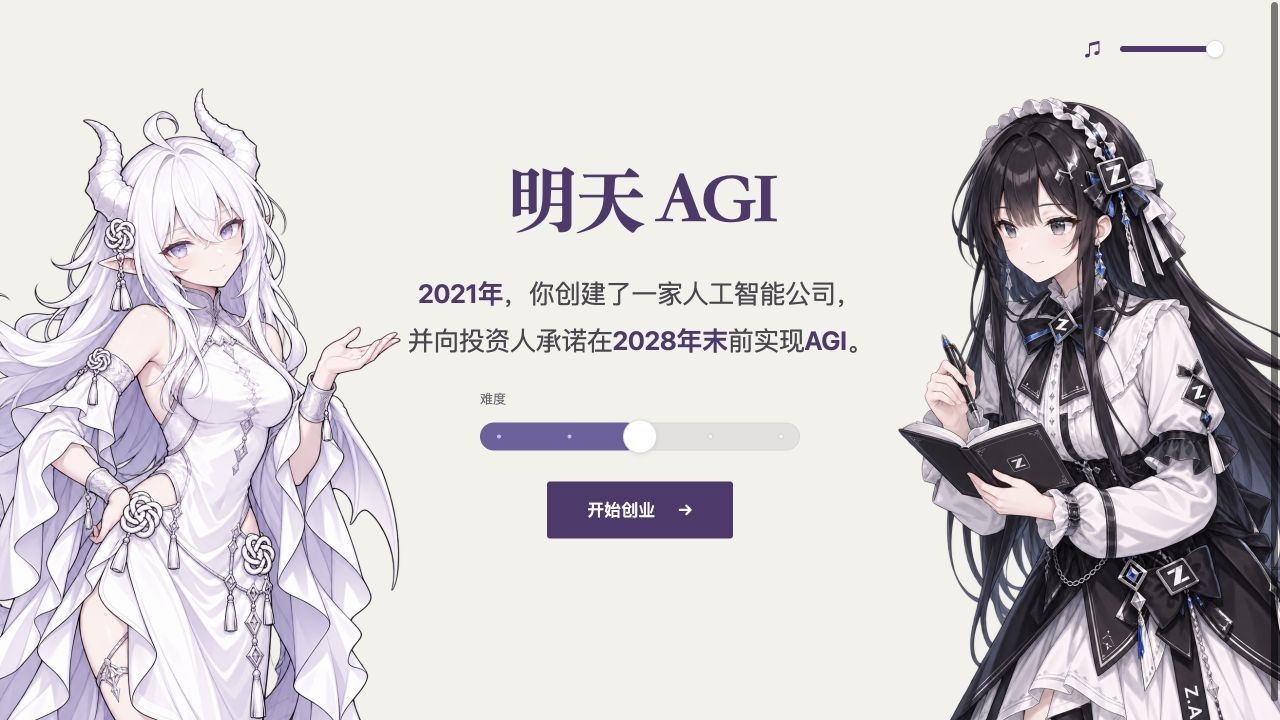
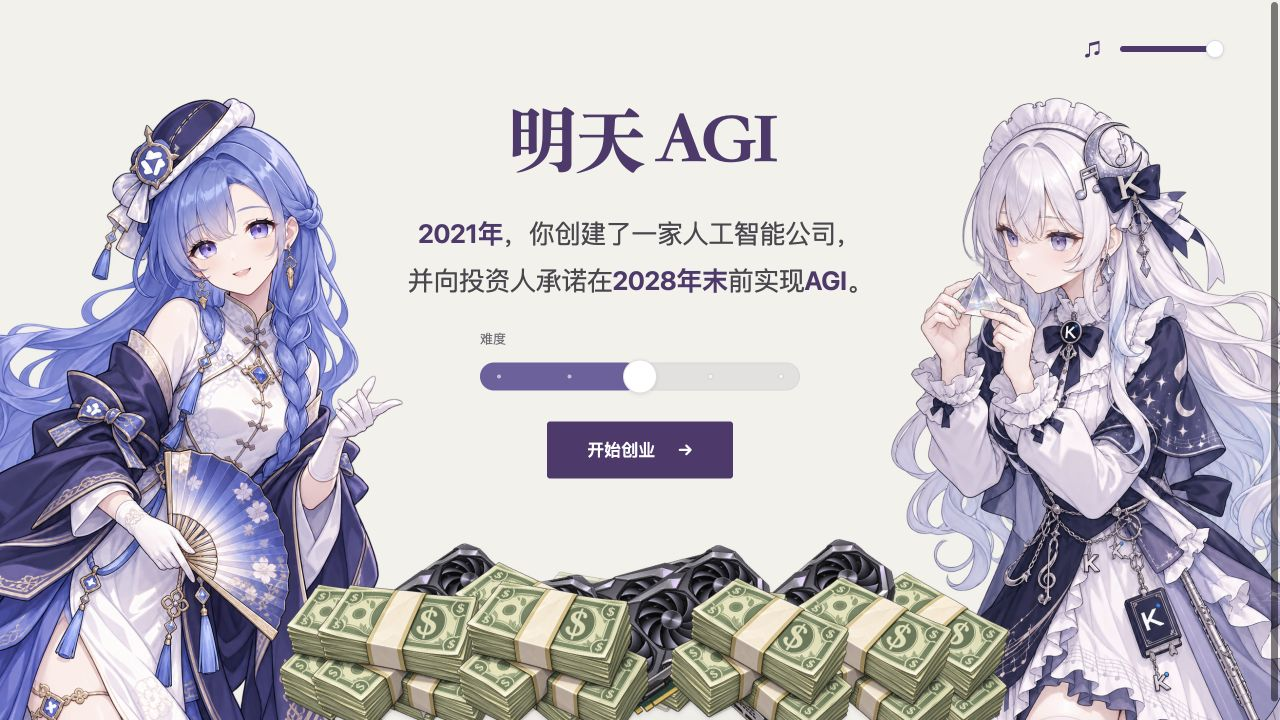
Add an anime cash and GPU pile that shrinks with difficulty

diff --git a/docs/game.js b/docs/game.js
@@ -27,7 +27,7 @@ const STAT_ICONS={
 };
 function statIcon(key){return `<svg class="stat-icon" viewBox="0 0 24 24" fill="none" stroke="currentColor" stroke-width="1.7" stroke-linecap="round" stroke-linejoin="round" aria-hidden="true" focusable="false">${STAT_ICONS[key]}</svg>`;}
 function statImpact(key,value){const label=STAT_LABELS[key],amount=signed(value);return `<span class="stat-impact" data-stat="${key}" title="${label} ${amount}">${statIcon(key)}<span class="sr-only">${label} </span><b>${amount}</b></span>`;}
-const BRANDS={google:{name:'Google / DeepMind',image:'assets/google.ico?v=68ef1152c62d'},claude:{name:'Claude',image:'assets/claude.png?v=68ef1152c62d'},deepseek:{name:'DeepSeek',image:'assets/deepseek.ico?v=68ef1152c62d'},nvidia:{name:'NVIDIA',image:'assets/nvidia.svg?v=68ef1152c62d'},xai:{name:'xAI',image:'assets/xai.ico?v=68ef1152c62d'},openai:{"name": "OpenAI", "image": "assets/openai.svg?v=68ef1152c62d"},kimi:{"name": "月之暗面 Kimi", "image": "assets/kimi.png?v=68ef1152c62d"},gemini:{"name": "Google Gemini", "image": "assets/gemini.png?v=68ef1152c62d"},qwen:{"name": "阿里千问", "image": "assets/qwen.png?v=68ef1152c62d"},doubao:{"name": "字节豆包", "image": "assets/doubao.png?v=68ef1152c62d"},wenxin:{"name": "百度文心", "image": "assets/wenxin.svg?v=68ef1152c62d"},huawei:{"name": "华为盘古", "image": "assets/huawei.png?v=68ef1152c62d"},hunyuan:{"name": "腾讯混元", "image": "assets/hunyuan.svg?v=68ef1152c62d"},xiaomi:{name:'小米',image:'assets/xiaomi.png?v=68ef1152c62d'}};
+const BRANDS={google:{name:'Google / DeepMind',image:'assets/google.ico?v=2dacdb84c088'},claude:{name:'Claude',image:'assets/claude.png?v=2dacdb84c088'},deepseek:{name:'DeepSeek',image:'assets/deepseek.ico?v=2dacdb84c088'},nvidia:{name:'NVIDIA',image:'assets/nvidia.svg?v=2dacdb84c088'},xai:{name:'xAI',image:'assets/xai.ico?v=2dacdb84c088'},openai:{"name": "OpenAI", "image": "assets/openai.svg?v=2dacdb84c088"},kimi:{"name": "月之暗面 Kimi", "image": "assets/kimi.png?v=2dacdb84c088"},gemini:{"name": "Google Gemini", "image": "assets/gemini.png?v=2dacdb84c088"},qwen:{"name": "阿里千问", "image": "assets/qwen.png?v=2dacdb84c088"},doubao:{"name": "字节豆包", "image": "assets/doubao.png?v=2dacdb84c088"},wenxin:{"name": "百度文心", "image": "assets/wenxin.svg?v=2dacdb84c088"},huawei:{"name": "华为盘古", "image": "assets/huawei.png?v=2dacdb84c088"},hunyuan:{"name": "腾讯混元", "image": "assets/hunyuan.svg?v=2dacdb84c088"},xiaomi:{name:'小米',image:'assets/xiaomi.png?v=2dacdb84c088'}};
 const STORAGE='agi-tomorrow-game', TOTAL=32, HISTORY_TURNS=24, OFFER_COUNT=9, STRATEGY_COUNT=3;
 const AGI={research:450,trust:55,team:40,scientists:2}, REVEAL_MS=1600;
 const TALENT_PROGRAM='open-talent-program', TALENT_BONUS={research:3,team:2}, TIBO_EXTRA_CHANCE=.18;
@@ -64,7 +64,7 @@ function makeDeck(){const used=new Set(),reserved=new Set(Object.values(DATA.fix
 function makeRun(difficulty=3){return {difficulty:difficultyFor(difficulty).level,started:false,picks:[],awaiting:false,eventIds:makeDeck(),offers:[],choiceOffers:[],choice:null,strategies:[],decisionStage:'event'};}
 let run=makeRun(),collected=[],revealTimer,introTransition=null,stageTransition=null,quarterTransition=null;
 const CHARACTER_SIDES={left:['gpt','deepseek','gemini','qwen','minimax'],right:['claude','grok','kimi','glm']};
-const CHARACTER_IMAGES={gpt:'assets/cover/gpt-action-v2.png?v=68ef1152c62d',deepseek:'assets/cover/deepseek-action-v2.png?v=68ef1152c62d',claude:'assets/cover/claude-action-v2.png?v=68ef1152c62d',gemini:'assets/cover/gemini-action-v2.png?v=68ef1152c62d',grok:'assets/cover/grok-action-v2.png?v=68ef1152c62d',qwen:'assets/cover/qwen-action-v2.png?v=68ef1152c62d',kimi:'assets/cover/kimi-action-v2.png?v=68ef1152c62d',minimax:'assets/cover/minimax-action-v2.png?v=68ef1152c62d',glm:'assets/cover/glm-action-v2.png?v=68ef1152c62d'};
+const CHARACTER_IMAGES={gpt:'assets/cover/gpt-action-v2.png?v=2dacdb84c088',deepseek:'assets/cover/deepseek-action-v2.png?v=2dacdb84c088',claude:'assets/cover/claude-action-v2.png?v=2dacdb84c088',gemini:'assets/cover/gemini-action-v2.png?v=2dacdb84c088',grok:'assets/cover/grok-action-v2.png?v=2dacdb84c088',qwen:'assets/cover/qwen-action-v2.png?v=2dacdb84c088',kimi:'assets/cover/kimi-action-v2.png?v=2dacdb84c088',minimax:'assets/cover/minimax-action-v2.png?v=2dacdb84c088',glm:'assets/cover/glm-action-v2.png?v=2dacdb84c088'};
 const characterBags={left:[],right:[]},characterPreloads=new Map();
 let characterPair=null,nextCharacterPair=null,nextCharacterTurn=null;
 function drawCharacterPair(previous=characterPair){
@@ -424,7 +424,16 @@ function renderCharacterArt(prefix){
  return `<div class="${prefix}-art" aria-hidden="true">${characterPair.map((id,i)=>`<img class="${prefix}-character ${prefix}-${i?'right':'left'} ${prefix}-${id}" src="${CHARACTER_IMAGES[id]}" width="1024" height="1536" alt="" draggable="false">`).join('')}</div>`;
 }
 function difficultyDescription(d){return `第 ${d.level} 档，共 5 档，${d.name}，初始资金 ${money(d.cash/100,Number.isInteger(d.cash/100)?0:1)} 亿，风险上限 ${d.riskLimit}`;}
-function renderIntro(){const d=difficultyFor(run.difficulty);return renderCharacterArt('intro')+`<section class="start-screen" data-difficulty="${d.level}" aria-labelledby="startTitle"><h1 id="startTitle">明天 <span class="agi-title"><span class="agi-title-text">AGI</span><span class="agi-title-sparkles" aria-hidden="true"></span></span></h1><p><strong>2021年</strong>，你创建了一家人工智能公司，并向投资人承诺在<strong>2028年末</strong>前实现<strong>AGI</strong>。</p><div class="difficulty-selector"><div class="difficulty-heading"><label for="difficultySlider">难度</label></div><div class="difficulty-slider-wrap" id="difficultySliderWrap" style="--difficulty-position:${(d.level-1)/4}"><div class="difficulty-track" aria-hidden="true"><span class="difficulty-fill"></span><span class="difficulty-sparkles"></span></div><div class="difficulty-ticks" aria-hidden="true"><i></i><i></i><i></i><i></i><i></i></div><span class="difficulty-thumb" aria-hidden="true"></span><input id="difficultySlider" type="range" min="1" max="5" step="0.01" value="${d.level}" aria-label="难度" aria-valuetext="${difficultyDescription(d)}"></div></div><button class="continue" id="startButton"><span class="start-button-text">开始创业<span aria-hidden="true"> →</span></span></button></section>`;}
+const STARTUP_RESOURCE_IMAGES={cash:'assets/intro/cash-bundles.png?v=2dacdb84c088',gpu:'assets/intro/graphics-card.png?v=2dacdb84c088'};
+const STARTUP_RESOURCES=Array.from({length:24},(_,order)=>({kind:order%3===0?'gpu':'cash',order,base:order<3,cutoff:order<3?5:5-(order-3)*11/60}));
+function startupResourceOpacity(base,cutoff,position){return base?1:clamp((cutoff-position)*3,0,1);}
+function renderStartupResources(position){return `<div id="startupResources" class="startup-resources" aria-hidden="true" style="--resource-density:${(5-position)/4}">${STARTUP_RESOURCES.map(piece=>`<img class="resource-piece" data-resource="${piece.kind}" data-base="${piece.base}" data-cutoff="${piece.cutoff}" src="${STARTUP_RESOURCE_IMAGES[piece.kind]}" alt="" draggable="false" decoding="async" style="--resource-order:${piece.order};--resource-opacity:${startupResourceOpacity(piece.base,piece.cutoff,position)}">`).join('')}</div>`;}
+function updateStartupResources(position){
+ const pile=$('startupResources');if(!pile)return;
+ pile.style.setProperty('--resource-density',String((5-position)/4));
+ for(const piece of pile.children)piece.style.setProperty('--resource-opacity',String(startupResourceOpacity(piece.dataset.base==='true',Number(piece.dataset.cutoff),position)));
+}
+function renderIntro(){const d=difficultyFor(run.difficulty);return renderCharacterArt('intro')+`<section class="start-screen" data-difficulty="${d.level}" aria-labelledby="startTitle"><h1 id="startTitle">明天 <span class="agi-title"><span class="agi-title-text">AGI</span><span class="agi-title-sparkles" aria-hidden="true"></span></span></h1><p><strong>2021年</strong>，你创建了一家人工智能公司，并向投资人承诺在<strong>2028年末</strong>前实现<strong>AGI</strong>。</p><div class="difficulty-selector"><div class="difficulty-heading"><label for="difficultySlider">难度</label></div><div class="difficulty-slider-wrap" id="difficultySliderWrap" style="--difficulty-position:${(d.level-1)/4}"><div class="difficulty-track" aria-hidden="true"><span class="difficulty-fill"></span><span class="difficulty-sparkles"></span></div><div class="difficulty-ticks" aria-hidden="true"><i></i><i></i><i></i><i></i><i></i></div><span class="difficulty-thumb" aria-hidden="true"></span><input id="difficultySlider" type="range" min="1" max="5" step="0.01" value="${d.level}" aria-label="难度" aria-valuetext="${difficultyDescription(d)}"></div></div><button class="continue" id="startButton"><span class="start-button-text">开始创业<span aria-hidden="true"> →</span></span></button></section>${renderStartupResources(d.level)}`;}
 function selectDifficulty(value,snap=false){
  if(run.started||introTransition)return;
  const raw=Number(value),position=Number.isFinite(raw)?clamp(raw,1,5):difficultyFor(run.difficulty).level;
@@ -433,6 +442,7 @@ function selectDifficulty(value,snap=false){
  if(screen)screen.dataset.difficulty=String(d.level);
  if(slider){slider.value=String(snap?d.level:position);slider.setAttribute('aria-valuetext',difficultyDescription(d));}
  if(wrap){wrap.dataset.snapping=String(snap);wrap.style.setProperty('--difficulty-position',String(((snap?d.level:position)-1)/4));}
+ updateStartupResources(snap?d.level:position);
  if(changed)save();
 }
 function renderChoiceAffinities(choice,index){

diff --git a/docs/style.css b/docs/style.css
@@ -708,7 +708,7 @@ body.is-starting .text-button{color:#eee7ff}
 /* A continuous volume control: the left endpoint is silent. */
 .music-control{display:flex;align-items:center;gap:3px;flex-shrink:0}
 .music-control #musicButton{min-height:36px}
-.music-control[data-sound="on"] #musicButton{display:grid;place-items:center;min-width:32px;width:32px;padding:4px;font-size:19px;line-height:1}
+.music-control[data-sound="on"] #musicButton[aria-pressed="true"]{display:grid;place-items:center;min-width:32px;width:32px;padding:4px;font-size:19px;line-height:1}
 .music-volume{position:relative;flex:0 0 112px;width:112px;height:36px;--volume-position:1}
 .music-volume-track{position:absolute;inset:15px 8px;overflow:hidden;border-radius:999px;background:#d9d5df;pointer-events:none}
 .music-volume-fill{position:absolute;inset:0 auto 0 0;width:calc(100%*var(--volume-position));background:var(--accent);border-radius:inherit}
@@ -757,3 +757,35 @@ body.is-starting .text-button{color:#eee7ff}
 @media(pointer:coarse){.music-control #musicButton{min-height:44px}.music-volume,.music-volume input{height:44px}.music-volume-track{inset-block:19px}}
 @media(max-width:600px){.music-volume{flex-basis:100px;width:100px}.start-screen>p{margin-bottom:22px}.difficulty-selector{width:min(100%,290px);margin-bottom:21px}}
 @media(prefers-reduced-motion:reduce){.difficulty-fill,.difficulty-sparkles,.agi-title-text,.agi-title-sparkles,.start-screen #startButton,.start-screen #startButton::after{animation:none!important}}
+
+/* Starting resources recede as the difficulty rises. */
+.startup-resources{position:fixed;left:50%;bottom:-34px;width:min(680px,64vw);height:250px;transform:translateX(-50%);pointer-events:none;user-select:none;isolation:isolate;z-index:0;--pile-rise:.5}
+.startup-resources::before{content:'';position:absolute;left:10%;right:10%;bottom:14px;height:20px;border-radius:50%;background:#5f56551c;filter:blur(10px);opacity:calc(.2 + var(--resource-density)*.55);transform:scaleX(calc(.55 + var(--resource-density)*.45))}
+.resource-piece{position:absolute;left:calc(var(--piece-x)*1%);bottom:calc(var(--piece-y)*var(--pile-rise)*1px);width:calc(var(--piece-width)*1%);height:auto;z-index:var(--piece-layer);opacity:var(--resource-opacity);transform:translateX(-50%) translateY(calc((1 - var(--resource-opacity))*14px)) rotate(calc(var(--piece-angle)*1deg)) scale(calc(.9 + var(--resource-opacity)*.1));transform-origin:50% 80%;transition:opacity .14s linear,transform .18s ease;filter:drop-shadow(0 3px 2px #342f4420)}
+.resource-piece:nth-child(1){--piece-x:55;--piece-y:0;--piece-width:33;--piece-angle:-8;--piece-layer:8}
+.resource-piece:nth-child(2){--piece-x:38;--piece-y:0;--piece-width:29;--piece-angle:-7;--piece-layer:10}
+.resource-piece:nth-child(3){--piece-x:67;--piece-y:-2;--piece-width:28;--piece-angle:8;--piece-layer:12}
+.resource-piece:nth-child(4){--piece-x:27;--piece-y:5;--piece-width:32;--piece-angle:13;--piece-layer:5}
+.resource-piece:nth-child(5){--piece-x:17;--piece-y:0;--piece-width:29;--piece-angle:-11;--piece-layer:8}
+.resource-piece:nth-child(6){--piece-x:82;--piece-y:0;--piece-width:28;--piece-angle:9;--piece-layer:11}
+.resource-piece:nth-child(7){--piece-x:76;--piece-y:16;--piece-width:32;--piece-angle:-16;--piece-layer:5}
+.resource-piece:nth-child(8){--piece-x:32;--piece-y:29;--piece-width:28;--piece-angle:8;--piece-layer:6}
+.resource-piece:nth-child(9){--piece-x:62;--piece-y:35;--piece-width:27;--piece-angle:-7;--piece-layer:7}
+.resource-piece:nth-child(10){--piece-x:48;--piece-y:32;--piece-width:33;--piece-angle:10;--piece-layer:4}
+.resource-piece:nth-child(11){--piece-x:11;--piece-y:20;--piece-width:27;--piece-angle:-9;--piece-layer:3}
+.resource-piece:nth-child(12){--piece-x:90;--piece-y:20;--piece-width:27;--piece-angle:13;--piece-layer:4}
+.resource-piece:nth-child(13){--piece-x:19;--piece-y:39;--piece-width:30;--piece-angle:-10;--piece-layer:2}
+.resource-piece:nth-child(14){--piece-x:46;--piece-y:58;--piece-width:28;--piece-angle:-8;--piece-layer:3}
+.resource-piece:nth-child(15){--piece-x:74;--piece-y:57;--piece-width:28;--piece-angle:10;--piece-layer:3}
+.resource-piece:nth-child(16){--piece-x:87;--piece-y:48;--piece-width:30;--piece-angle:11;--piece-layer:1}
+.resource-piece:nth-child(17){--piece-x:25;--piece-y:58;--piece-width:28;--piece-angle:-9;--piece-layer:2}
+.resource-piece:nth-child(18){--piece-x:56;--piece-y:80;--piece-width:29;--piece-angle:7;--piece-layer:2}
+.resource-piece:nth-child(19){--piece-x:39;--piece-y:82;--piece-width:32;--piece-angle:-13;--piece-layer:1}
+.resource-piece:nth-child(20){--piece-x:13;--piece-y:56;--piece-width:27;--piece-angle:-8;--piece-layer:1}
+.resource-piece:nth-child(21){--piece-x:91;--piece-y:60;--piece-width:27;--piece-angle:9;--piece-layer:1}
+.resource-piece:nth-child(22){--piece-x:66;--piece-y:92;--piece-width:32;--piece-angle:10;--piece-layer:0}
+.resource-piece:nth-child(23){--piece-x:37;--piece-y:109;--piece-width:27;--piece-angle:-10;--piece-layer:0}
+.resource-piece:nth-child(24){--piece-x:61;--piece-y:120;--piece-width:28;--piece-angle:8;--piece-layer:0}
+@media(min-width:761px){main.intro:has(.startup-resources){padding-bottom:200px}}
+@media(max-width:760px){.startup-resources{width:min(510px,calc(100vw + 60px));height:190px;bottom:-28px;--pile-rise:.4}}
+@media(prefers-reduced-motion:reduce){.resource-piece{transition:none}}

diff --git a/style.css b/style.css
@@ -708,7 +708,7 @@ body.is-starting .text-button{color:#eee7ff}
 /* A continuous volume control: the left endpoint is silent. */
 .music-control{display:flex;align-items:center;gap:3px;flex-shrink:0}
 .music-control #musicButton{min-height:36px}
-.music-control[data-sound="on"] #musicButton{display:grid;place-items:center;min-width:32px;width:32px;padding:4px;font-size:19px;line-height:1}
+.music-control[data-sound="on"] #musicButton[aria-pressed="true"]{display:grid;place-items:center;min-width:32px;width:32px;padding:4px;font-size:19px;line-height:1}
 .music-volume{position:relative;flex:0 0 112px;width:112px;height:36px;--volume-position:1}
 .music-volume-track{position:absolute;inset:15px 8px;overflow:hidden;border-radius:999px;background:#d9d5df;pointer-events:none}
 .music-volume-fill{position:absolute;inset:0 auto 0 0;width:calc(100%*var(--volume-position));background:var(--accent);border-radius:inherit}
@@ -757,3 +757,35 @@ body.is-starting .text-button{color:#eee7ff}
 @media(pointer:coarse){.music-control #musicButton{min-height:44px}.music-volume,.music-volume input{height:44px}.music-volume-track{inset-block:19px}}
 @media(max-width:600px){.music-volume{flex-basis:100px;width:100px}.start-screen>p{margin-bottom:22px}.difficulty-selector{width:min(100%,290px);margin-bottom:21px}}
 @media(prefers-reduced-motion:reduce){.difficulty-fill,.difficulty-sparkles,.agi-title-text,.agi-title-sparkles,.start-screen #startButton,.start-screen #startButton::after{animation:none!important}}
+
+/* Starting resources recede as the difficulty rises. */
+.startup-resources{position:fixed;left:50%;bottom:-34px;width:min(680px,64vw);height:250px;transform:translateX(-50%);pointer-events:none;user-select:none;isolation:isolate;z-index:0;--pile-rise:.5}
+.startup-resources::before{content:'';position:absolute;left:10%;right:10%;bottom:14px;height:20px;border-radius:50%;background:#5f56551c;filter:blur(10px);opacity:calc(.2 + var(--resource-density)*.55);transform:scaleX(calc(.55 + var(--resource-density)*.45))}
+.resource-piece{position:absolute;left:calc(var(--piece-x)*1%);bottom:calc(var(--piece-y)*var(--pile-rise)*1px);width:calc(var(--piece-width)*1%);height:auto;z-index:var(--piece-layer);opacity:var(--resource-opacity);transform:translateX(-50%) translateY(calc((1 - var(--resource-opacity))*14px)) rotate(calc(var(--piece-angle)*1deg)) scale(calc(.9 + var(--resource-opacity)*.1));transform-origin:50% 80%;transition:opacity .14s linear,transform .18s ease;filter:drop-shadow(0 3px 2px #342f4420)}
+.resource-piece:nth-child(1){--piece-x:55;--piece-y:0;--piece-width:33;--piece-angle:-8;--piece-layer:8}
+.resource-piece:nth-child(2){--piece-x:38;--piece-y:0;--piece-width:29;--piece-angle:-7;--piece-layer:10}
+.resource-piece:nth-child(3){--piece-x:67;--piece-y:-2;--piece-width:28;--piece-angle:8;--piece-layer:12}
+.resource-piece:nth-child(4){--piece-x:27;--piece-y:5;--piece-width:32;--piece-angle:13;--piece-layer:5}
+.resource-piece:nth-child(5){--piece-x:17;--piece-y:0;--piece-width:29;--piece-angle:-11;--piece-layer:8}
+.resource-piece:nth-child(6){--piece-x:82;--piece-y:0;--piece-width:28;--piece-angle:9;--piece-layer:11}
+.resource-piece:nth-child(7){--piece-x:76;--piece-y:16;--piece-width:32;--piece-angle:-16;--piece-layer:5}
+.resource-piece:nth-child(8){--piece-x:32;--piece-y:29;--piece-width:28;--piece-angle:8;--piece-layer:6}
+.resource-piece:nth-child(9){--piece-x:62;--piece-y:35;--piece-width:27;--piece-angle:-7;--piece-layer:7}
+.resource-piece:nth-child(10){--piece-x:48;--piece-y:32;--piece-width:33;--piece-angle:10;--piece-layer:4}
+.resource-piece:nth-child(11){--piece-x:11;--piece-y:20;--piece-width:27;--piece-angle:-9;--piece-layer:3}
+.resource-piece:nth-child(12){--piece-x:90;--piece-y:20;--piece-width:27;--piece-angle:13;--piece-layer:4}
+.resource-piece:nth-child(13){--piece-x:19;--piece-y:39;--piece-width:30;--piece-angle:-10;--piece-layer:2}
+.resource-piece:nth-child(14){--piece-x:46;--piece-y:58;--piece-width:28;--piece-angle:-8;--piece-layer:3}
+.resource-piece:nth-child(15){--piece-x:74;--piece-y:57;--piece-width:28;--piece-angle:10;--piece-layer:3}
+.resource-piece:nth-child(16){--piece-x:87;--piece-y:48;--piece-width:30;--piece-angle:11;--piece-layer:1}
+.resource-piece:nth-child(17){--piece-x:25;--piece-y:58;--piece-width:28;--piece-angle:-9;--piece-layer:2}
+.resource-piece:nth-child(18){--piece-x:56;--piece-y:80;--piece-width:29;--piece-angle:7;--piece-layer:2}
+.resource-piece:nth-child(19){--piece-x:39;--piece-y:82;--piece-width:32;--piece-angle:-13;--piece-layer:1}
+.resource-piece:nth-child(20){--piece-x:13;--piece-y:56;--piece-width:27;--piece-angle:-8;--piece-layer:1}
+.resource-piece:nth-child(21){--piece-x:91;--piece-y:60;--piece-width:27;--piece-angle:9;--piece-layer:1}
+.resource-piece:nth-child(22){--piece-x:66;--piece-y:92;--piece-width:32;--piece-angle:10;--piece-layer:0}
+.resource-piece:nth-child(23){--piece-x:37;--piece-y:109;--piece-width:27;--piece-angle:-10;--piece-layer:0}
+.resource-piece:nth-child(24){--piece-x:61;--piece-y:120;--piece-width:28;--piece-angle:8;--piece-layer:0}
+@media(min-width:761px){main.intro:has(.startup-resources){padding-bottom:200px}}
+@media(max-width:760px){.startup-resources{width:min(510px,calc(100vw + 60px));height:190px;bottom:-28px;--pile-rise:.4}}
+@media(prefers-reduced-motion:reduce){.resource-piece{transition:none}}

diff --git a/game.js b/game.js
@@ -424,7 +424,16 @@ function renderCharacterArt(prefix){
  return `<div class="${prefix}-art" aria-hidden="true">${characterPair.map((id,i)=>`<img class="${prefix}-character ${prefix}-${i?'right':'left'} ${prefix}-${id}" src="${CHARACTER_IMAGES[id]}" width="1024" height="1536" alt="" draggable="false">`).join('')}</div>`;
 }
 function difficultyDescription(d){return `第 ${d.level} 档，共 5 档，${d.name}，初始资金 ${money(d.cash/100,Number.isInteger(d.cash/100)?0:1)} 亿，风险上限 ${d.riskLimit}`;}
-function renderIntro(){const d=difficultyFor(run.difficulty);return renderCharacterArt('intro')+`<section class="start-screen" data-difficulty="${d.level}" aria-labelledby="startTitle"><h1 id="startTitle">明天 <span class="agi-title"><span class="agi-title-text">AGI</span><span class="agi-title-sparkles" aria-hidden="true"></span></span></h1><p><strong>2021年</strong>，你创建了一家人工智能公司，并向投资人承诺在<strong>2028年末</strong>前实现<strong>AGI</strong>。</p><div class="difficulty-selector"><div class="difficulty-heading"><label for="difficultySlider">难度</label></div><div class="difficulty-slider-wrap" id="difficultySliderWrap" style="--difficulty-position:${(d.level-1)/4}"><div class="difficulty-track" aria-hidden="true"><span class="difficulty-fill"></span><span class="difficulty-sparkles"></span></div><div class="difficulty-ticks" aria-hidden="true"><i></i><i></i><i></i><i></i><i></i></div><span class="difficulty-thumb" aria-hidden="true"></span><input id="difficultySlider" type="range" min="1" max="5" step="0.01" value="${d.level}" aria-label="难度" aria-valuetext="${difficultyDescription(d)}"></div></div><button class="continue" id="startButton"><span class="start-button-text">开始创业<span aria-hidden="true"> →</span></span></button></section>`;}
+const STARTUP_RESOURCE_IMAGES={cash:'assets/intro/cash-bundles.png',gpu:'assets/intro/graphics-card.png'};
+const STARTUP_RESOURCES=Array.from({length:24},(_,order)=>({kind:order%3===0?'gpu':'cash',order,base:order<3,cutoff:order<3?5:5-(order-3)*11/60}));
+function startupResourceOpacity(base,cutoff,position){return base?1:clamp((cutoff-position)*3,0,1);}
+function renderStartupResources(position){return `<div id="startupResources" class="startup-resources" aria-hidden="true" style="--resource-density:${(5-position)/4}">${STARTUP_RESOURCES.map(piece=>`<img class="resource-piece" data-resource="${piece.kind}" data-base="${piece.base}" data-cutoff="${piece.cutoff}" src="${STARTUP_RESOURCE_IMAGES[piece.kind]}" alt="" draggable="false" decoding="async" style="--resource-order:${piece.order};--resource-opacity:${startupResourceOpacity(piece.base,piece.cutoff,position)}">`).join('')}</div>`;}
+function updateStartupResources(position){
+ const pile=$('startupResources');if(!pile)return;
+ pile.style.setProperty('--resource-density',String((5-position)/4));
+ for(const piece of pile.children)piece.style.setProperty('--resource-opacity',String(startupResourceOpacity(piece.dataset.base==='true',Number(piece.dataset.cutoff),position)));
+}
+function renderIntro(){const d=difficultyFor(run.difficulty);return renderCharacterArt('intro')+`<section class="start-screen" data-difficulty="${d.level}" aria-labelledby="startTitle"><h1 id="startTitle">明天 <span class="agi-title"><span class="agi-title-text">AGI</span><span class="agi-title-sparkles" aria-hidden="true"></span></span></h1><p><strong>2021年</strong>，你创建了一家人工智能公司，并向投资人承诺在<strong>2028年末</strong>前实现<strong>AGI</strong>。</p><div class="difficulty-selector"><div class="difficulty-heading"><label for="difficultySlider">难度</label></div><div class="difficulty-slider-wrap" id="difficultySliderWrap" style="--difficulty-position:${(d.level-1)/4}"><div class="difficulty-track" aria-hidden="true"><span class="difficulty-fill"></span><span class="difficulty-sparkles"></span></div><div class="difficulty-ticks" aria-hidden="true"><i></i><i></i><i></i><i></i><i></i></div><span class="difficulty-thumb" aria-hidden="true"></span><input id="difficultySlider" type="range" min="1" max="5" step="0.01" value="${d.level}" aria-label="难度" aria-valuetext="${difficultyDescription(d)}"></div></div><button class="continue" id="startButton"><span class="start-button-text">开始创业<span aria-hidden="true"> →</span></span></button></section>${renderStartupResources(d.level)}`;}
 function selectDifficulty(value,snap=false){
  if(run.started||introTransition)return;
  const raw=Number(value),position=Number.isFinite(raw)?clamp(raw,1,5):difficultyFor(run.difficulty).level;
@@ -433,6 +442,7 @@ function selectDifficulty(value,snap=false){
  if(screen)screen.dataset.difficulty=String(d.level);
  if(slider){slider.value=String(snap?d.level:position);slider.setAttribute('aria-valuetext',difficultyDescription(d));}
  if(wrap){wrap.dataset.snapping=String(snap);wrap.style.setProperty('--difficulty-position',String(((snap?d.level:position)-1)/4));}
+ updateStartupResources(snap?d.level:position);
  if(changed)save();
 }
 function renderChoiceAffinities(choice,index){

diff --git a/docs/index.html b/docs/index.html
@@ -1,13 +1,13 @@
 <!doctype html>
 <html lang="zh-CN">
 <head>
-<meta name="agi-build" content="68ef1152c62d">
+<meta name="agi-build" content="2dacdb84c088">
 <meta charset="UTF-8"><meta name="viewport" content="width=device-width,initial-scale=1">
 <meta name="theme-color" content="#f3f1eb">
 <meta name="description" content="一款关于研发 AGI 的极简文字游戏。做选择，管理资金，走向不同结局。">
 <title>明天 AGI</title>
 <link rel="icon" href="data:,">
-<link rel="stylesheet" href="style.css?v=68ef1152c62d">
+<link rel="stylesheet" href="style.css?v=2dacdb84c088">
 </head>
 <body>
 <div class="page">
@@ -34,11 +34,11 @@ Downloaded: 2026-10-08
 SHA-256: cefacb4fd5478e5f7a7d9ab198ea186f031edb9afbc8907e319aefded7d1cedb
 User reference: https://www.bilibili.com/video/BV1r8411J71X/ (P1, Millennium Dawn Main Theme)
 -->
-<audio id="bgm" src="assets/music/millennium-dawn-main-theme.m4a?v=68ef1152c62d" loop preload="none"></audio>
+<audio id="bgm" src="assets/music/millennium-dawn-main-theme.m4a?v=2dacdb84c088" loop preload="none"></audio>
 <!-- Settlement SFX: Millennium Dawn event_popup_01.wav, CC BY-SA 4.0. See assets/sfx/CREDITS.txt. -->
-<audio id="settlementSound" src="assets/sfx/millennium-dawn-event-popup.wav?v=68ef1152c62d" preload="auto"></audio>
+<audio id="settlementSound" src="assets/sfx/millennium-dawn-event-popup.wav?v=2dacdb84c088" preload="auto"></audio>
 <!-- Original mechanical event-confirmation SFX; not a sampled HOI4 recording. -->
-<audio id="eventSelectionSound" src="assets/sfx/focus-select.wav?v=68ef1152c62d" preload="auto"></audio>
-<script src="story.js?v=68ef1152c62d"></script><script src="strategies.js?v=68ef1152c62d"></script><script src="partners.js?v=68ef1152c62d"></script><script src="worldlines.js?v=68ef1152c62d"></script><script src="worldline-engine.js?v=68ef1152c62d"></script><script src="game.js?v=68ef1152c62d"></script><script src="music.js?v=68ef1152c62d"></script><script src="sound.js?v=68ef1152c62d"></script>
+<audio id="eventSelectionSound" src="assets/sfx/focus-select.wav?v=2dacdb84c088" preload="auto"></audio>
+<script src="story.js?v=2dacdb84c088"></script><script src="strategies.js?v=2dacdb84c088"></script><script src="partners.js?v=2dacdb84c088"></script><script src="worldlines.js?v=2dacdb84c088"></script><script src="worldline-engine.js?v=2dacdb84c088"></script><script src="game.js?v=2dacdb84c088"></script><script src="music.js?v=2dacdb84c088"></script><script src="sound.js?v=2dacdb84c088"></script>
 </body>
 </html>

diff --git a/docs/sound.js b/docs/sound.js
@@ -12,7 +12,7 @@ function enabled(){try{return localStorage.getItem('agi-tomorrow-music-v1')!=='o
 function stopEventSelection(){if(!eventSelection)return;eventSelection.pause();eventSelection.currentTime=0;}
 function playEventSelection(){
  if(!enabled()||muted||!eventSelection)return;
- // Dispatched only after game.js?v=68ef1152c62d accepts the choice, still in its user gesture.
+ // Dispatched only after game.js?v=2dacdb84c088 accepts the choice, still in its user gesture.
  // Rewind the same element instead of layering duplicate confirmation impacts.
  try{stopEventSelection();eventSelection.play().catch(()=>{});}catch{}
 }

diff --git a/build.py b/build.py
@@ -13,7 +13,7 @@ for asset in (root / 'assets').rglob('*'):
         mime = {'.m4a':'audio/mp4','.wav':'audio/wav','.ogg':'audio/ogg','.png':'image/png','.svg':'image/svg+xml','.ico':'image/x-icon'}[asset.suffix]
         data = base64.b64encode(asset.read_bytes()).decode('ascii')
         html = html.replace('assets/' + asset.relative_to(root / 'assets').as_posix(), f'data:{mime};base64,{data}')
-credit_files = ['assets/cover/CREDITS.txt', 'assets/music/CREDITS.txt', 'assets/sfx/CREDITS.txt', 'assets/LOBE-ICONS-LICENSE.txt']
+credit_files = ['assets/intro/CREDITS.txt', 'assets/cover/CREDITS.txt', 'assets/music/CREDITS.txt', 'assets/sfx/CREDITS.txt', 'assets/LOBE-ICONS-LICENSE.txt']
 notices = '\n\n'.join((root / name).read_text(encoding='utf-8') for name in credit_files)
 html = html.replace('</body>', '<template id="agi-third-party-notices"><pre>' + escape(notices) + '</pre></template>\n</body>')
 (root / 'dist').mkdir(exist_ok=True)

diff --git a/assets/intro/GENERATION.md b/assets/intro/GENERATION.md
@@ -1,0 +1,35 @@
+# 封面资源素材生成记录
+
+生成日期：2026-10-09。
+模式：内置 `image_gen`；两张独立新生成素材；每次调用均设置 `transparent_background: true`，未传入参考或编辑图片。
+原始生成 PNG 直接复制到本目录，保留生成的透明通道，未抠图、缩放或重绘。
+
+## cash-bundles.png
+
+```text
+Use case: stylized-concept
+Asset type: transparent 2D anime game prop sprite for an illustrated startup game; this sprite will be repeated and layered into a pile beneath a start button.
+Primary request: One compact little pile of three bundled stacks of stylized US dollar banknotes.
+Scene/backdrop: genuinely transparent background, clean alpha, no colored backdrop and no floor.
+Subject: Three thick stacks of pale green dollar bills in a close overlapping arrangement, bound with cream paper bands. Simplified dollar symbols and decorative banknote patterns, not a replica of real currency. Crisp visible layered paper edges and slightly rounded animated proportions.
+Style/medium: polished hand-drawn Japanese anime game inventory art, fine dark ink outlines, detailed cel shading, subtle painterly highlights, not photorealistic and not flat vector.
+Composition/framing: square 1024 by 1024 composition, three-quarter view from slightly above, full object silhouette visible, tightly framed so the pile occupies most of the canvas with just a small safe transparent margin, all three stacks form one compact prop.
+Lighting/mood: soft upper-left light, a tiny soft contact shadow immediately around the object only.
+Color palette: sage and pale green bills, ivory and cream bands, muted lavender-gray shadows.
+Constraints: authentic alpha transparency; isolated dollar bundles only, no other objects, no characters or hands, no environment, no long cast shadow, no labels, no readable text apart from simplified dollar signs, no logo, no watermark, no cropping.
+```
+
+## graphics-card.png
+
+```text
+Use case: stylized-concept
+Asset type: transparent 2D anime game prop sprite for an illustrated startup game; this sprite will be repeated and layered into a pile beneath a start button.
+Primary request: One modern high-performance graphics card with three cooling fans.
+Scene/backdrop: genuinely transparent background, clean alpha, no colored backdrop and no floor.
+Subject: A complete chunky triple-fan graphics card, graphite-gray angular housing, silver beveled edge details, subtle pale-lavender reflections, visible green PCB edge and gold PCIe connector, clear dark fan blades. Recognizable desktop GPU form with bracket.
+Style/medium: polished hand-drawn Japanese anime game inventory art, fine dark ink outlines, detailed cel shading, subtle painterly highlights, not photorealistic and not flat vector.
+Composition/framing: square 1024 by 1024 composition, three-quarter view from slightly above so the fan face and thickness are visible, full object silhouette visible, tightly framed on a diagonal so the complete graphics card occupies most of the canvas with just a small safe transparent margin.
+Lighting/mood: soft upper-left light, a tiny soft contact shadow immediately around the object only.
+Color palette: graphite-gray, black and silver metal, restrained pale-lavender reflections, green PCB, gold connector.
+Constraints: authentic alpha transparency; exactly one isolated graphics card only, no characters or hands, no packaging or cables, no other objects, no environment, no long cast shadow, no brand, no readable text, no logo, no watermark, no cropping.
+```

diff --git a/docs/RULES.md b/docs/RULES.md
@@ -12,7 +12,7 @@
 
 ## 页面与交互
 
-浅色纸面与紫色强调。开局可选择五档难度；最高档的滑杆、AGI标题和开始按钮带紫色流光星点。封面两侧从DeepSeek、Claude、GPT中等概率抽取两位不同角色。每次打开或重开时重新抽取，同一局封面重绘与季度过场保持同一组；不修改游戏存档或经营数值。开始创业后播放约4.6秒的开机过场，含风扇与键盘声；事件选项接受时播放原创机械落印确认音，约0.36秒进入策略阶段。策略选择只在执行后结算，结果延迟1.6秒揭晓。下一季度用1.6秒紫色过场衔接，左右角色浮现，中间显示新季度；末季显示结局。动画期间锁定输入，减少动态偏好下缩短或跳过过场。
+浅色纸面与紫色强调。开局可选择五档难度；屏幕底部的美金与显卡装饰堆随难度升高而减少；最高档的滑杆、AGI标题和开始按钮带紫色流光星点。封面两侧从DeepSeek、Claude、GPT中等概率抽取两位不同角色。每次打开或重开时重新抽取，同一局封面重绘与季度过场保持同一组；不修改游戏存档或经营数值。开始创业后播放约4.6秒的开机过场，含风扇与键盘声；事件选项接受时播放原创机械落印确认音，约0.36秒进入策略阶段。策略选择只在执行后结算，结果延迟1.6秒揭晓。下一季度用1.6秒紫色过场衔接，左右角色浮现，中间显示新季度；末季显示结局。动画期间锁定输入，减少动态偏好下缩短或跳过过场。
 
 顶部显示年份、季度、资金、研发、士气、风评、风险和科学家名单。属性变化实时预览；左侧友商关系只显示已结算数值：负数红色，0—59白色，60及以上绿色。没有往来时隐藏关系栏。事件标题居中，点击回应直接选择；策略页只保留九张卡与执行按钮。策略卡右上角显示净收支，属性和厂商关系位于底部。
 
